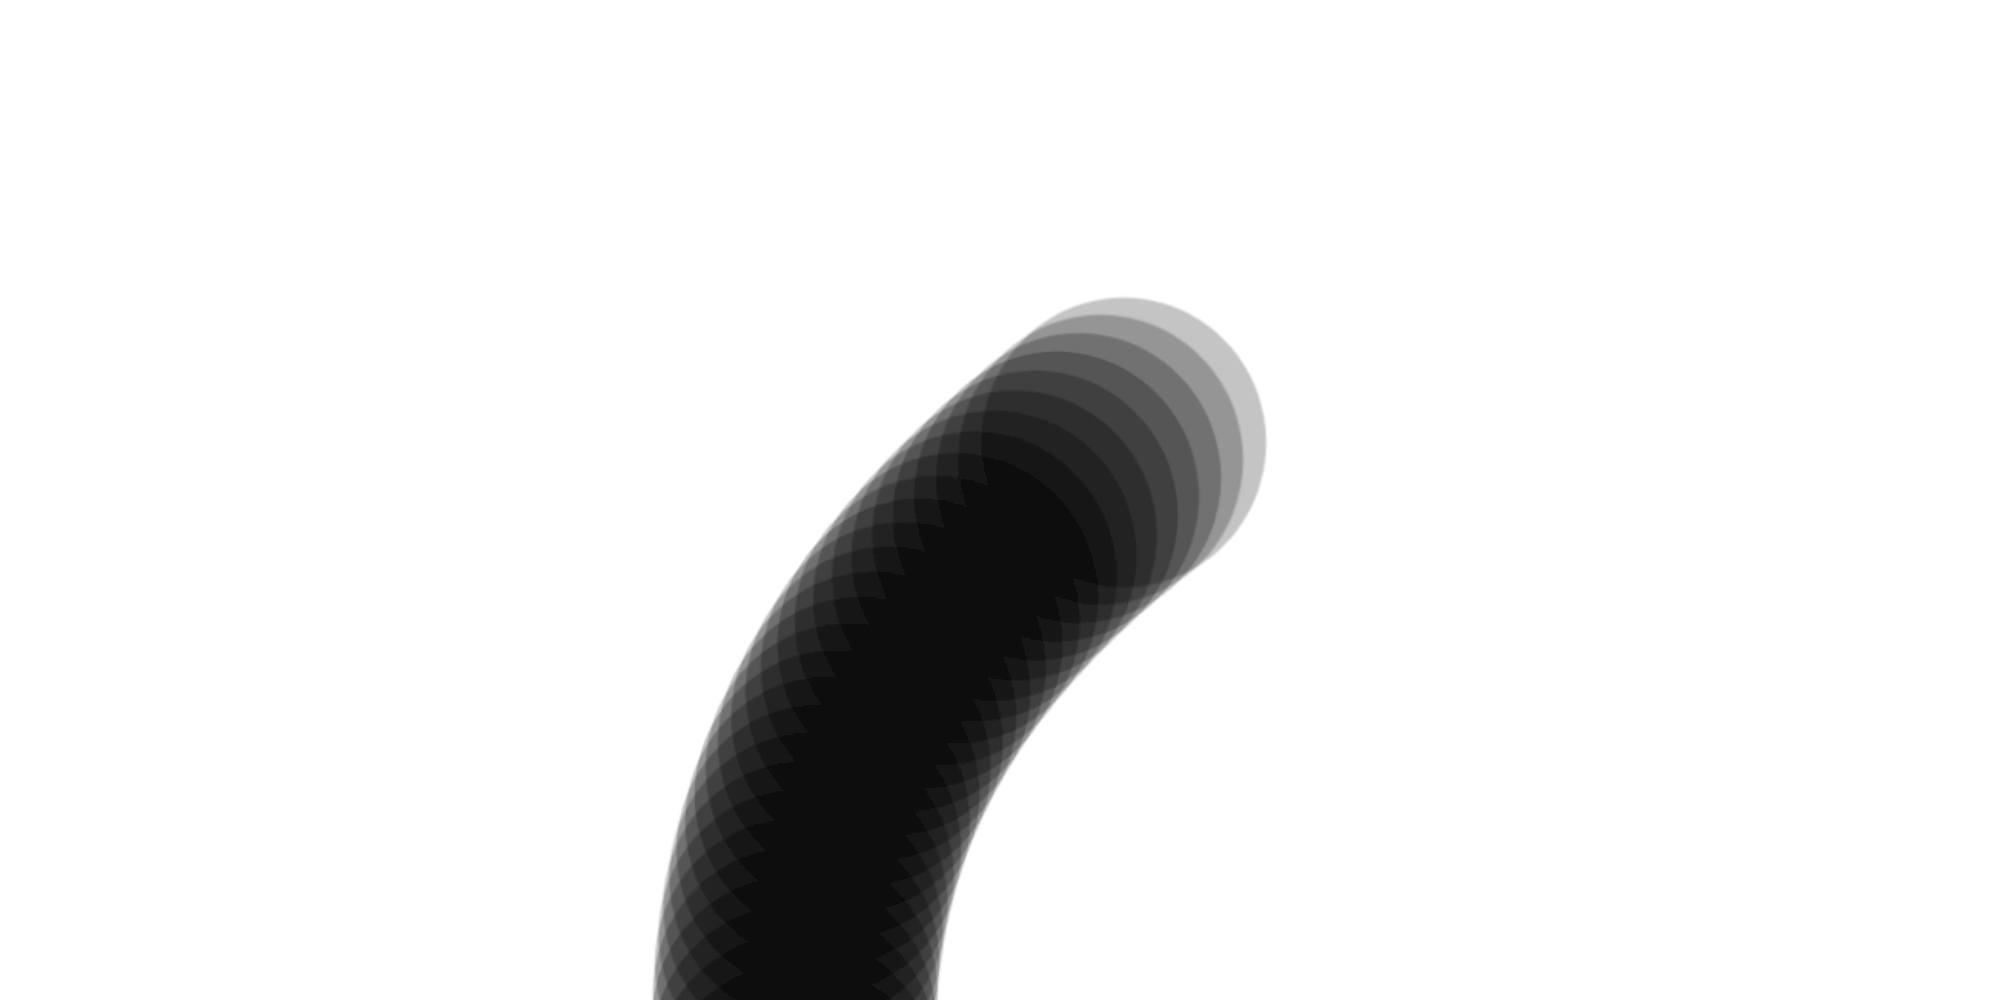
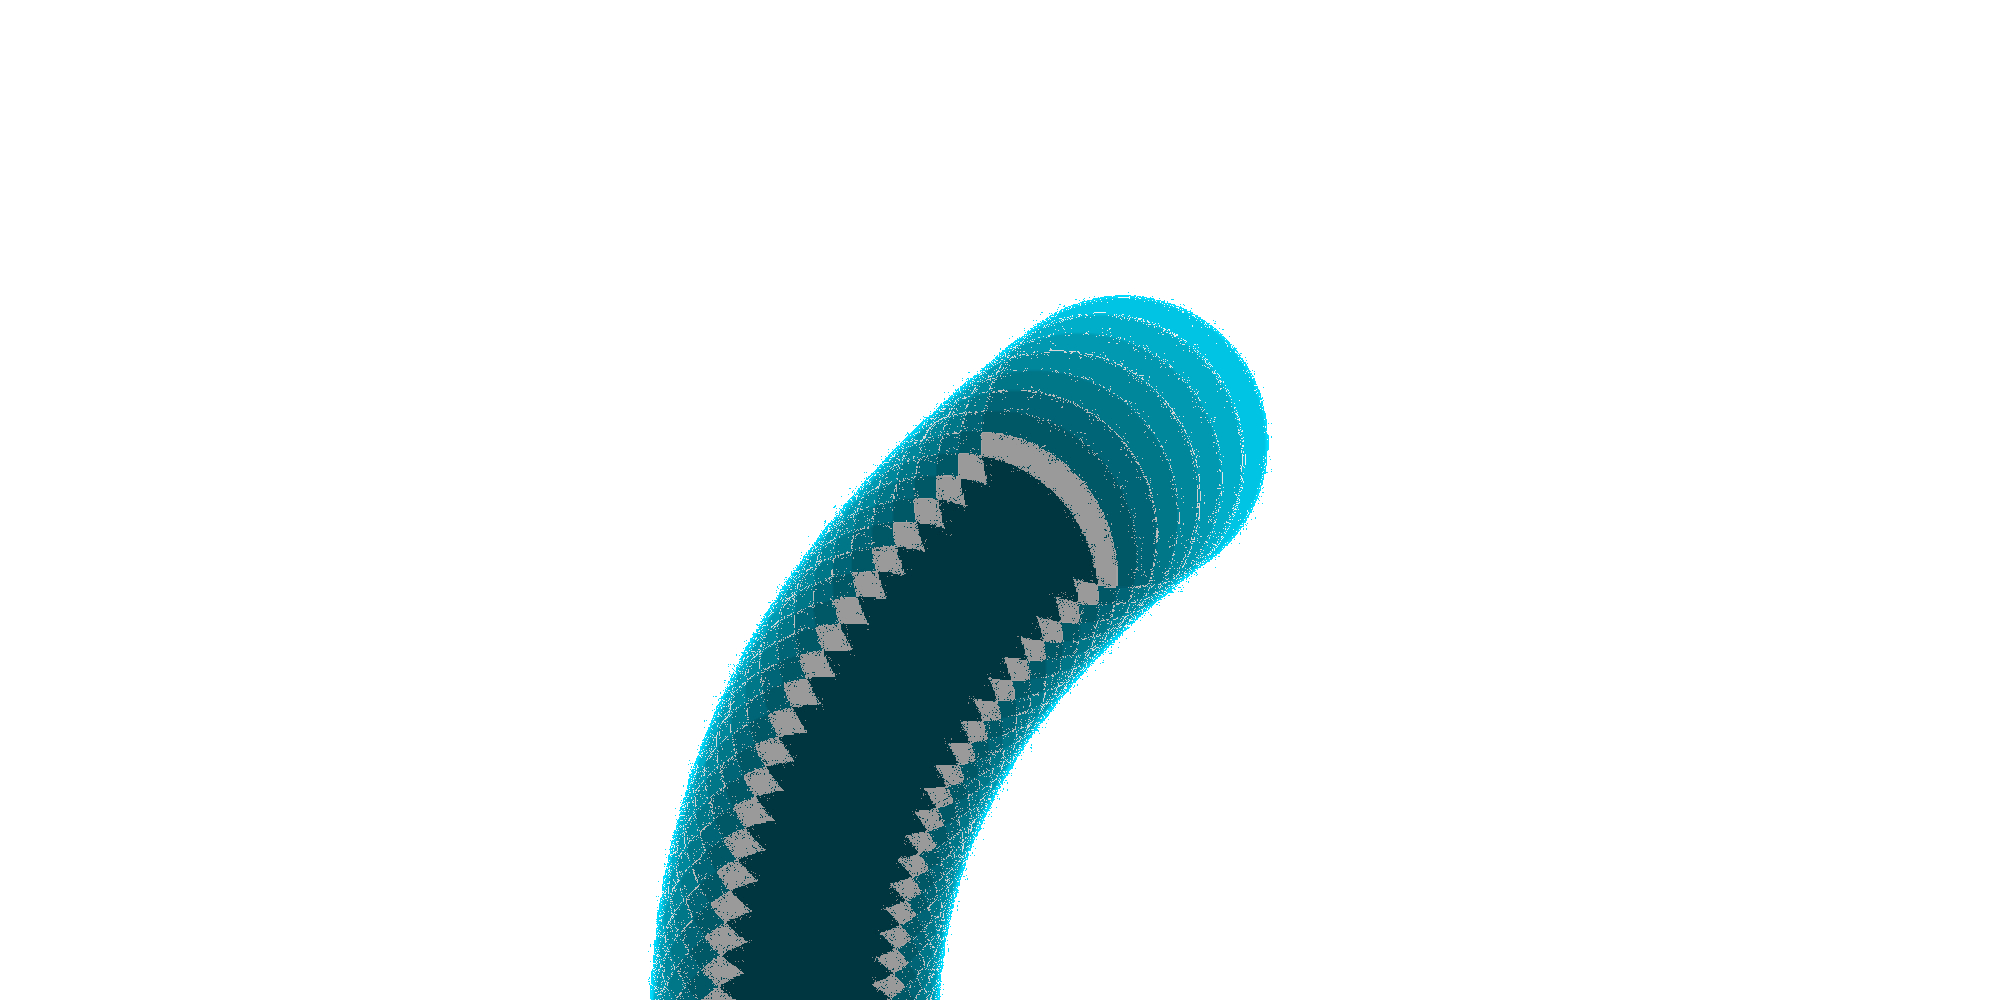
revolve

Changed region(s): [[0.31, 0.279, 0.651, 1.0]]

diff --git a/script.js b/script.js
@@ -1,10 +1,16 @@
 // totHeight = window.screen.availHeight;
 // totWidth = window.screen.availWidth;
 
+let previous = 0;
 $(window).on('scroll', function() {
   var winScroll = $(this).scrollTop();
 
+  let shifting = -Math.cos(winScroll/20);
+  let z = (previous > shifting) ? 10 : -10;
+  previous = shifting;
+
   $('.circle').css({
-    'transform': 'translate(-' + winScroll / 2 + '%)'
+    'transform': 'translate(' + -150 *shifting + '%,' + 200 * shifting + '%)',
+    'z-index': z
   });
 });

diff --git a/index.html b/index.html
@@ -8,13 +8,13 @@
   <body>
     <div class="arrowBack a1"></div>
     <div class="between" style="">
-      <div class="circle" style="left:32.5%">  </div>
+      <!-- <div class="circle" style="left:32.5%">  </div> -->
     </div>
 
     <div class="arrowBack a2"></div>
 
     <div class="between" style="">
-      <div class="circle" style="left:46%">  </div>
+      <div class="circle" style="left:40%;top:-40vh;">  </div>
     </div>
 
     <div class="arrowBack a3"></div>

diff --git a/style.css b/style.css
@@ -12,15 +12,15 @@ body{
 }
 
 .a1 {
-  background-image: url("./images/squiggle 1.jpg");
+  background-image: url("./images/squiggle 1.png");
 }
 
 .a2 {
-  background-image: url("./images/squiggle 2.jpg");
+  background-image: url("./images/squiggle 2.png");
 }
 
 .a3 {
-  background-image: url("./images/squiggle 3.jpg");
+  background-image: url("./images/squiggle 3.png");
 }
 
 .between{
